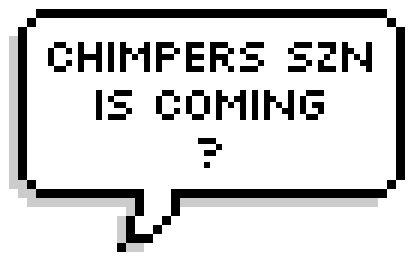
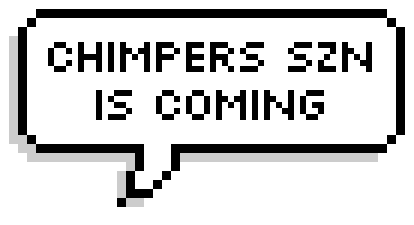
Fix speech bubble emoji rendering issue
- Removed emoji 🐒 from speech bubble text to prevent '?' rendering
- Updated speech bubble to 'CHIMPERS SZN\nis coming' (clean text only)
- Regenerated speech bubble image without emoji
- Fixed duplicate entries in constants file

Changed region(s): [[0.1159, 0.1556, 0.9855, 0.9333], [0.0, 0.0311, 0.9855, 0.1556], [0.0, 0.5911, 0.3478, 0.8089]]

diff --git a/consts/index.ts b/consts/index.ts
@@ -466,7 +466,7 @@ export const reactionsMap: ReactionMetadata[] = [
     filename: "Happy 4th of July!.png",
   },
   {
-    title: "CHIMPERS SZN\nis coming\n🐒",
+    title: "CHIMPERS SZN\nis coming",
     scale: 0.6,
     x: 500,
     y: 60,
